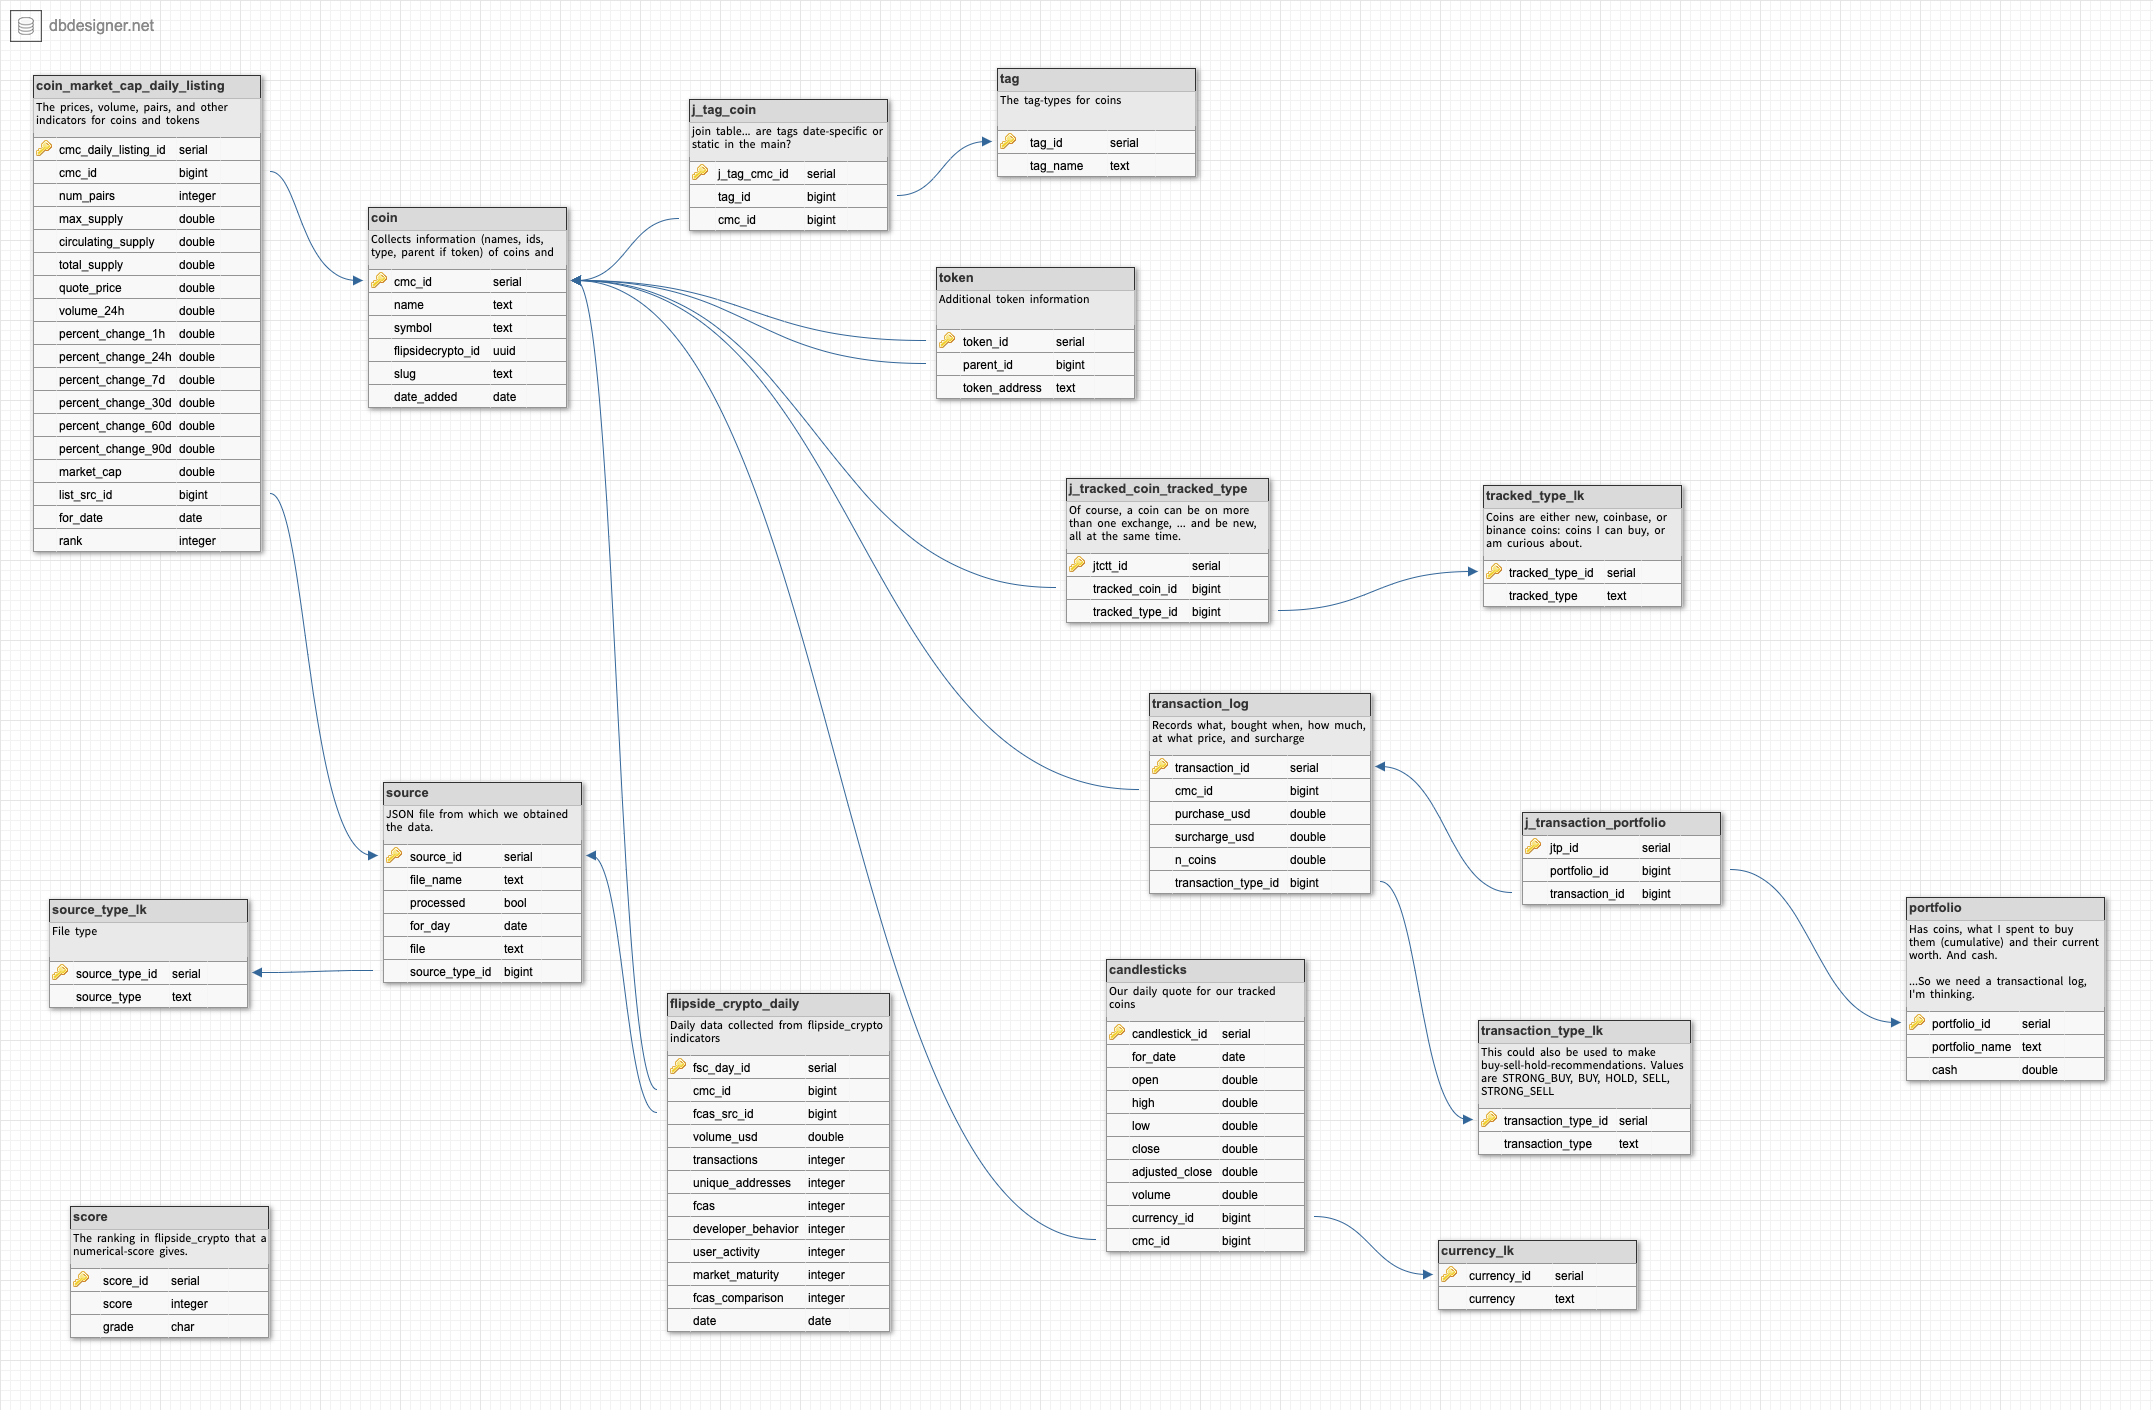
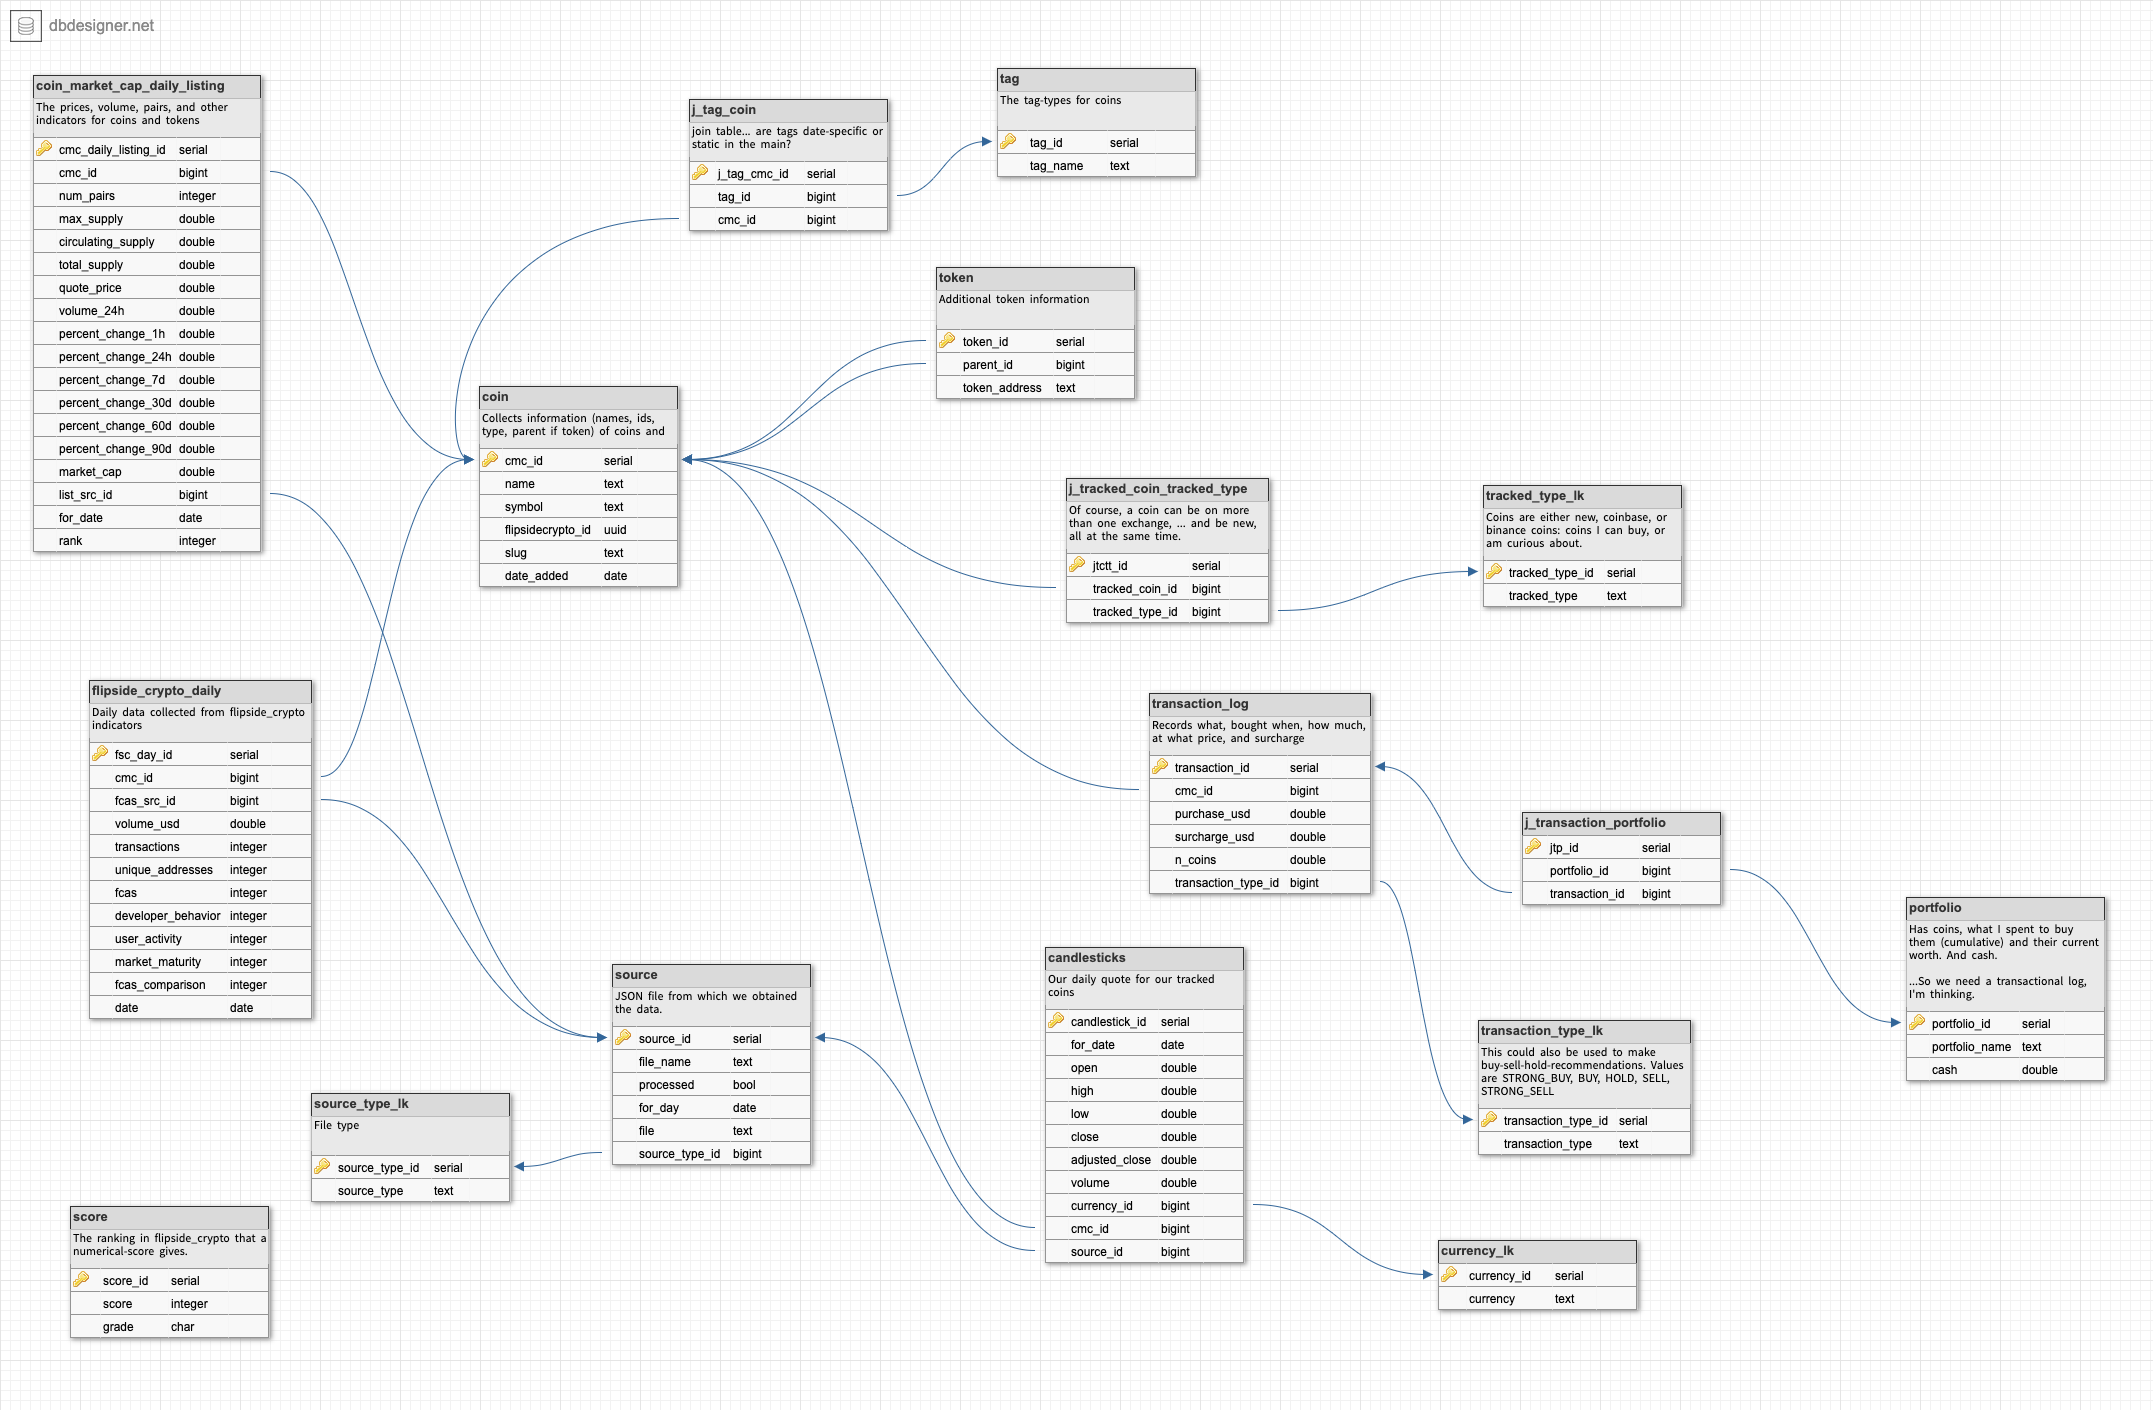
Candlesticks: downloading from yahoo! and storing in the database.

diff --git a/README.md b/README.md
@@ -37,8 +37,6 @@ http://logicalgraphs.blogspot.com/2021/03/top-10-e-coins-for-2021-03-09.html
 
 TODOs:
 
-* populate candlesticks for tracked coins
-* create a daily cadence for updating candlesticks
 * download FCAS scores: ... once we have cmc_id-to-flipside_crypto_uuid mapping
 
 OTHER TODOs: 
@@ -71,6 +69,8 @@ https://github.com/geophf/1HaskellADay/tree/master/exercises/HAD/Graph/D3
 
 ## Revision History
 ### ... or feeping creatures! AHA!
+
+* 2021-03-31: downloading candlesticks from yahoo! and storing in database.
 
 * 2021-03-27: uploaded coinbase and binance tradeable coins to tracked-coins.
 
